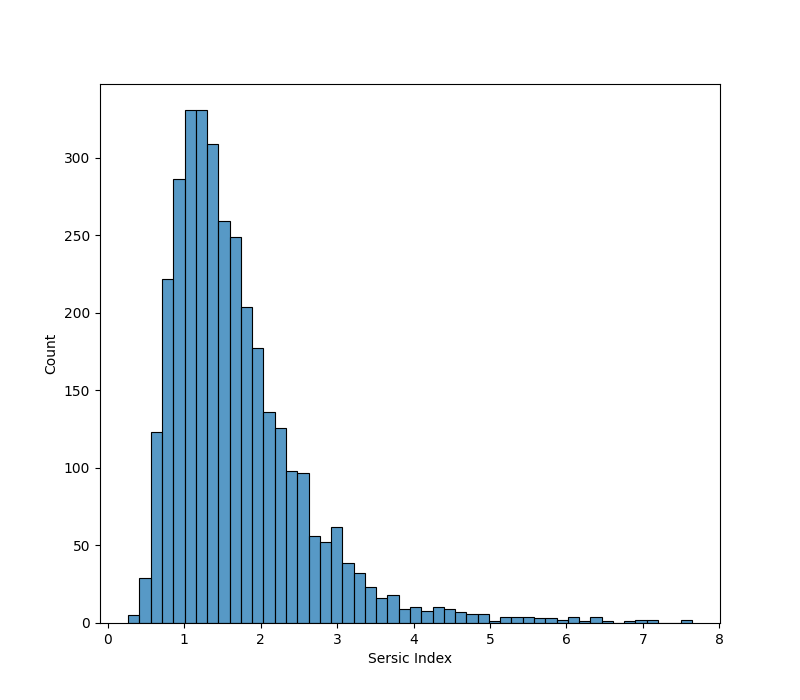
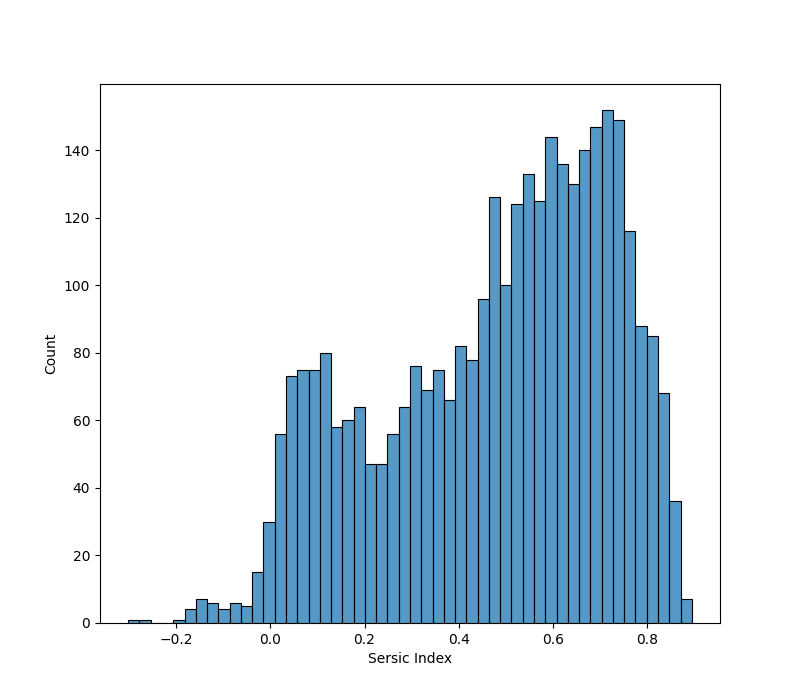
Code

diff --git a/balance_dataset.py b/balance_dataset.py
@@ -30,6 +30,13 @@ physical_properties = pd.read_csv("Galaxy Properties/Eagle Properties/physical_p
 # dataframe for all properties
 all_properties = pd.merge(structure_properties, physical_properties, on="GalaxyID")
 
+# load the disk-total ratios
+disk_total = pd.read_csv("Galaxy Properties/Eagle Properties/disk_to_total.csv", comment="#")
+
+# add the disk-total ratios to the other properties
+all_properties = pd.merge(all_properties, disk_total, on="GalaxyID")
+
+
 # # load the non-parametric properties (restructure the dataframe to match the others)
 # non_parametric_properties = pd.read_hdf("Galaxy Properties/Eagle Properties/Ref100N1504.hdf5", key="galface/r")
 # non_parametric_properties = non_parametric_properties.reset_index()
@@ -54,16 +61,18 @@ all_properties = pd.merge(structure_properties, physical_properties, on="GalaxyI
 
 
 
-spirals = list(all_properties["GalaxyID"].loc[all_properties["n_r"] <= 2.5])
-unknown = list(all_properties["GalaxyID"].loc[all_properties["n_r"].between(2.5, 4, inclusive="neither")])
-ellipticals = list(all_properties["GalaxyID"].loc[all_properties["n_r"] >= 4])
+# spirals = list(all_properties["GalaxyID"].loc[all_properties["n_r"] <= 2.5])
+# unknown = list(all_properties["GalaxyID"].loc[all_properties["n_r"].between(2.5, 4, inclusive="neither")])
+# ellipticals = list(all_properties["GalaxyID"].loc[all_properties["n_r"] >= 4])
 
+spirals = list(all_properties["GalaxyID"].loc[all_properties["DiskToTotal"] > 0.2])
+ellipticals = list(all_properties["GalaxyID"].loc[all_properties["DiskToTotal"] <= 0.2])
 
 
 print(len(all_properties))
 
 print(len(spirals), "-", len(spirals)/len(all_properties))
-print(len(unknown), "-", len(unknown)/len(all_properties))
+# print(len(unknown), "-", len(unknown)/len(all_properties))
 print(len(ellipticals), "-", len(ellipticals)/len(all_properties))
 print()
 
@@ -101,30 +110,31 @@ all_properties = all_properties.reset_index(drop=True)
 
 
 
-spirals = list(all_properties["GalaxyID"].loc[all_properties["n_r"] <= 2.5])
-unknown = list(all_properties["GalaxyID"].loc[all_properties["n_r"].between(2.5, 4, inclusive="neither")])
-ellipticals = list(all_properties["GalaxyID"].loc[all_properties["n_r"] >= 4])
+# spirals = list(all_properties["GalaxyID"].loc[all_properties["n_r"] <= 2.5])
+# unknown = list(all_properties["GalaxyID"].loc[all_properties["n_r"].between(2.5, 4, inclusive="neither")])
+# ellipticals = list(all_properties["GalaxyID"].loc[all_properties["n_r"] >= 4])
 
-
+spirals = list(all_properties["GalaxyID"].loc[all_properties["DiskToTotal"] > 0.2])
+ellipticals = list(all_properties["GalaxyID"].loc[all_properties["DiskToTotal"] <= 0.2])
 
 print(len(all_properties))
 
 print(len(spirals), "-", len(spirals)/len(all_properties))
-print(len(unknown), "-", len(unknown)/len(all_properties))
+# print(len(unknown), "-", len(unknown)/len(all_properties))
 print(len(ellipticals), "-", len(ellipticals)/len(all_properties))
 
 
 
 
 spiral_sample = random.sample(spirals, 36)
-unknown_sample = random.sample(unknown, 36)
+# unknown_sample = random.sample(unknown, 36)
 elliptical_sample = random.sample(ellipticals, 36)
 
-spiral_sample[0] = 14510387
+# spiral_sample[0] = 14510387
 
 print(spiral_sample)
 print()
-print(unknown_sample)
+# print(unknown_sample)
 print()
 print(elliptical_sample)
 
@@ -132,24 +142,24 @@ print(elliptical_sample)
 
 
 
-# fig, axs = plt.subplots(6, 6, figsize=(20, 20))
-#
-# for i in range(0, 6):
-#     for j in range(0, 6):
-#
-#         index = i + (6*j)
-#         print(index)
-#
-#         image = mpimg.imread("/cosma7/data/Eagle/web-storage/RefL0100N1504_Subhalo/galrand_" + str(spiral_sample[index]) + ".png")
-#
-#         sersic = all_properties.loc[all_properties["GalaxyID"] == spiral_sample[index], "n_r"].values[0]
-#
-#         axs[i][j].imshow(image)
-#         axs[i][j].set_title(str(spiral_sample[index]) + ", n=" + str(sersic))
-#         axs[i][j].tick_params(axis='both', which='both', length=0, labelbottom=False, labelleft=False)
-#
-# plt.savefig("Variational Eagle/Plots/sample_spiral", bbox_inches='tight')
-# plt.show()
+fig, axs = plt.subplots(6, 6, figsize=(20, 20))
+
+for i in range(0, 6):
+    for j in range(0, 6):
+
+        index = i + (6*j)
+        print(index)
+
+        image = mpimg.imread("/cosma7/data/Eagle/web-storage/RefL0100N1504_Subhalo/galrand_" + str(spiral_sample[index]) + ".png")
+
+        sersic = all_properties.loc[all_properties["GalaxyID"] == spiral_sample[index], "n_r"].values[0]
+
+        axs[i][j].imshow(image)
+        axs[i][j].set_title(str(spiral_sample[index]) + ", n=" + str(sersic))
+        axs[i][j].tick_params(axis='both', which='both', length=0, labelbottom=False, labelleft=False)
+
+plt.savefig("Variational Eagle/Plots/sample_dt_spiral", bbox_inches='tight')
+plt.show()
 
 
 
@@ -174,51 +184,51 @@ print(elliptical_sample)
 
 
 
-# fig, axs = plt.subplots(6, 6, figsize=(15, 15))
-#
-# for i in range(0, 6):
-#     for j in range(0, 6):
-#
-#         index = i + (6*j)
-#         print(index)
-#
-#         image = mpimg.imread("/cosma7/data/Eagle/web-storage/RefL0100N1504_Subhalo/galrand_" + str(elliptical_sample[index]) + ".png")
-#
-#         sersic = all_properties.loc[all_properties["GalaxyID"] == elliptical_sample[index], "n_r"].values[0]
-#
-#         axs[i][j].imshow(image)
-#         axs[i][j].set_title(str(elliptical_sample[index]) + ", n=" + str(sersic))
-#         axs[i][j].tick_params(axis='both', which='both', length=0, labelbottom=False, labelleft=False)
-#
-# plt.savefig("Variational Eagle/Plots/sample_elliptical", bbox_inches='tight')
-# plt.show()
+fig, axs = plt.subplots(6, 6, figsize=(15, 15))
 
+for i in range(0, 6):
+    for j in range(0, 6):
 
+        index = i + (6*j)
+        print(index)
 
+        image = mpimg.imread("/cosma7/data/Eagle/web-storage/RefL0100N1504_Subhalo/galrand_" + str(elliptical_sample[index]) + ".png")
 
-spiral = 17917747
-unknown = 17752121
-elliptical = 9526568
+        sersic = all_properties.loc[all_properties["GalaxyID"] == elliptical_sample[index], "n_r"].values[0]
 
-fig, axs = plt.subplots(1, 3, figsize=(15, 5))
+        axs[i][j].imshow(image)
+        axs[i][j].set_title(str(elliptical_sample[index]) + ", n=" + str(sersic))
+        axs[i][j].tick_params(axis='both', which='both', length=0, labelbottom=False, labelleft=False)
 
-image = mpimg.imread("/cosma7/data/Eagle/web-storage/RefL0100N1504_Subhalo/galrand_" + str(spiral) + ".png")
-axs[0].imshow(image)
-axs[0].tick_params(axis='both', which='both', length=0, labelbottom=False, labelleft=False)
-axs[0].set_title("Disk & Spiral", fontsize=20)
-
-image = mpimg.imread("/cosma7/data/Eagle/web-storage/RefL0100N1504_Subhalo/galrand_" + str(elliptical) + ".png")
-axs[1].imshow(image)
-axs[1].tick_params(axis='both', which='both', length=0, labelbottom=False, labelleft=False)
-axs[1].set_title("Bulge (Ellitpical)", fontsize=20)
-
-image = mpimg.imread("/cosma7/data/Eagle/web-storage/RefL0100N1504_Subhalo/galrand_" + str(unknown) + ".png")
-axs[2].imshow(image)
-axs[2].tick_params(axis='both', which='both', length=0, labelbottom=False, labelleft=False)
-axs[2].set_title("Intermediate", fontsize=20)
-
-plt.savefig("Variational Eagle/Plots/sample_three_types", bbox_inches='tight')
+plt.savefig("Variational Eagle/Plots/sample_dt_elliptical", bbox_inches='tight')
 plt.show()
+
+
+
+
+# spiral = 17917747
+# unknown = 17752121
+# elliptical = 9526568
+#
+# fig, axs = plt.subplots(1, 3, figsize=(15, 5))
+#
+# image = mpimg.imread("/cosma7/data/Eagle/web-storage/RefL0100N1504_Subhalo/galrand_" + str(spiral) + ".png")
+# axs[0].imshow(image)
+# axs[0].tick_params(axis='both', which='both', length=0, labelbottom=False, labelleft=False)
+# axs[0].set_title("Disk & Spiral", fontsize=20)
+#
+# image = mpimg.imread("/cosma7/data/Eagle/web-storage/RefL0100N1504_Subhalo/galrand_" + str(elliptical) + ".png")
+# axs[1].imshow(image)
+# axs[1].tick_params(axis='both', which='both', length=0, labelbottom=False, labelleft=False)
+# axs[1].set_title("Bulge (Ellitpical)", fontsize=20)
+#
+# image = mpimg.imread("/cosma7/data/Eagle/web-storage/RefL0100N1504_Subhalo/galrand_" + str(unknown) + ".png")
+# axs[2].imshow(image)
+# axs[2].tick_params(axis='both', which='both', length=0, labelbottom=False, labelleft=False)
+# axs[2].set_title("Intermediate", fontsize=20)
+#
+# plt.savefig("Variational Eagle/Plots/sample_three_types", bbox_inches='tight')
+# plt.show()
 
 
 

diff --git a/comparison-extracted_features.py b/comparison-extracted_features.py
@@ -170,15 +170,15 @@ for n_flows in [n_flows]:
     # selected_indices = all_properties[all_properties["n_r"].between(2.5, 4, inclusive="neither")].index.tolist()
     # all_properties = all_properties[all_properties["n_r"].between(2.5, 4, inclusive="neither")]
 
-    selected_indices = all_properties[all_properties["DiscToTotal"] >= 0.5].index.tolist()
-    all_properties = all_properties[all_properties["DiscToTotal"] >= 0.5]
-
-
-    print(all_properties)
-    extracted_features = np.array([extracted_features[i] for i in selected_indices])
-    all_properties = all_properties.reset_index(drop=True)
-    print(extracted_features.shape)
-    print(selected_indices)
+    # selected_indices = all_properties[all_properties["DiscToTotal"] >= 0.5].index.tolist()
+    # all_properties = all_properties[all_properties["DiscToTotal"] >= 0.5]
+    #
+    #
+    # print(all_properties)
+    # extracted_features = np.array([extracted_features[i] for i in selected_indices])
+    # all_properties = all_properties.reset_index(drop=True)
+    # print(extracted_features.shape)
+    # print(selected_indices)
 
 
 
@@ -439,41 +439,41 @@ def density_scatter(x ,y, axs, **kwargs):
 
 
 
-fig, axs = plt.subplots(1, 1, figsize=(12, 10))
-
-density_scatter(all_properties["n_r"], all_properties["DiscToTotal"], axs=axs, s=5)
-axs.set_xlabel("Sersic Index")
-axs.set_ylabel("Disk-Total Ratio")
-
-plt.show()
-
-
-fig, axs = plt.subplots(1, 3, figsize=(20, 5))
-
-density_scatter(extracted_features.T[1], all_properties["DiscToTotal"], axs=axs[0], s=5)
-axs[0].set_xlabel("Feature 1")
-axs[0].set_ylabel("Disk-Total Ratio")
-
-density_scatter(extracted_features.T[3], all_properties["DiscToTotal"], axs=axs[1], s=5)
-axs[1].set_xlabel("Feature 3")
-axs[1].set_ylabel("Disk-Total Ratio")
-
-density_scatter(extracted_features.T[6], all_properties["DiscToTotal"], axs=axs[2], s=5)
-axs[2].set_xlabel("Feature 6")
-axs[2].set_ylabel("Disk-Total Ratio")
-
-
-plt.show()
-
-
-
-# fig, axs = plt.subplots(1, 1, figsize=(8, 7))
+# fig, axs = plt.subplots(1, 1, figsize=(12, 10))
 #
-# sns.histplot(x=all_properties["n_r"], ax=axs, bins=50)
+# density_scatter(all_properties["n_r"], all_properties["DiscToTotal"], axs=axs, s=5)
 # axs.set_xlabel("Sersic Index")
+# axs.set_ylabel("Disk-Total Ratio")
 #
-# plt.savefig("Variational Eagle/Plots/sersic_distribution")
 # plt.show()
+#
+#
+# fig, axs = plt.subplots(1, 3, figsize=(20, 5))
+#
+# density_scatter(extracted_features.T[1], all_properties["DiscToTotal"], axs=axs[0], s=5)
+# axs[0].set_xlabel("Feature 1")
+# axs[0].set_ylabel("Disk-Total Ratio")
+#
+# density_scatter(extracted_features.T[3], all_properties["DiscToTotal"], axs=axs[1], s=5)
+# axs[1].set_xlabel("Feature 3")
+# axs[1].set_ylabel("Disk-Total Ratio")
+#
+# density_scatter(extracted_features.T[6], all_properties["DiscToTotal"], axs=axs[2], s=5)
+# axs[2].set_xlabel("Feature 6")
+# axs[2].set_ylabel("Disk-Total Ratio")
+#
+#
+# plt.show()
+
+
+
+fig, axs = plt.subplots(1, 1, figsize=(8, 7))
+
+sns.histplot(x=all_properties["DiscToTotal"], ax=axs, bins=50)
+axs.set_xlabel("Disk-Total Ratio")
+
+plt.savefig("Variational Eagle/Plots/disk_total_distribution")
+plt.show()
 
 
 
